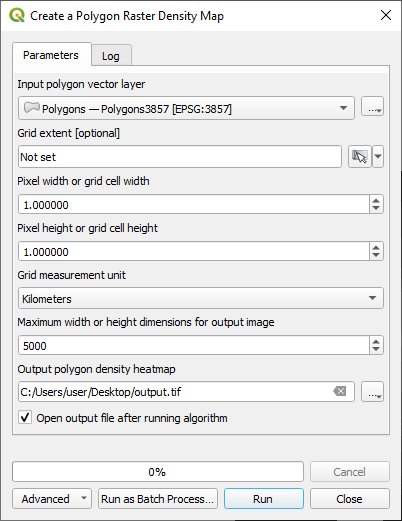
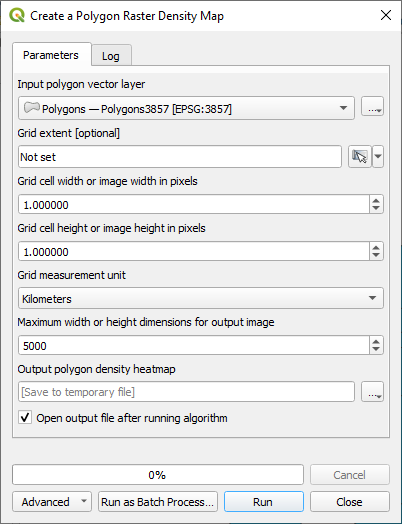
Update documentation

diff --git a/index.html b/index.html
@@ -41,13 +41,13 @@ code {
 <div style="text-align:center"><img src="help/menu.jpg" alt="Density Analysis"></div>
 
 <p>Note that one of the algorithms used in this plugin makes use of <strong>H3</strong> (Hexagonal hierarchical geospatial indexing system). This is an incredibly fast algorithm for generating hexagon density maps, but requires installation of the <strong>H3 python library</strong>. The H3 package can be installed by running the OSGeo4W shell as system administrator and running 'pip install h3' or whatever method you use to install python packages. After spending some time working with it, I think it would be beneficial to include it as one of the QGIS libraries in the future. In one test using the QGIS <strong><em>Create grid</em></strong> processing algorithm, followed by <strong><em>Count points in a polygon</em></strong> algorithm took 63.18 seconds to process spatially indexed point data. To do the same thing with H3 only took 3.79 seconds.</p>
-<h2><img src="help/densitygrid.png" alt="Random style" width="25" height="24"> Create Density Map Grid</h2>
+<h2><img src="help/densitygrid.png" alt="Random style" width="25" height="24"> Create styled density map</h2>
 <p>Given point features this will create a rectangle, diamond, or hexagon grid histogram of points that occur in each polygon grid cell. This algorithm uses the QGIS <strong><em>Count points in polygon</em></strong> algorithm which is fairly time intensive even though it has been masterfully implemented in core QGIS and significantly beats the speed implemented in commercial software. To optimize the speed make sure your input data is spatially indexed; otherwise, this algorithm will be painfully slow. The advantage to this algorithm is that it gives the most control over the size of the polygon grid cells. If speed is more important then use either the <strong><em>Create geohash density map</em></strong> or <strong><em>Create H3 density map</em></strong>. Both of these use geohash indexing to count points in each geohash grid cell and they are very fast. The former creates a square or rectangular grid and H3 creates a hexagon grid. For H3 support the H3 library needs to be installed in QGIS. The disadvantages of these geohash density maps is that they have fixed resolutions and you cannot choose anything in between, but this is also what makes them fast.</p>
 <p>Here is an example of crime in Chicago. Each point on the left is a criminal event. On the right is a hexagon heatmap counting the number of events in each cell and displaying it as a heatmap. The darker the red, the more crime is in that area. </p>
 <div style="text-align:center"><img src="help/chicago_crime.jpg" alt="Chicago crime" width="1000"></div>
 
 <p>This shows the parameters used in the algorithm.</p>
-<div style="text-align:center"><img src="help/kernel_density.png" alt="Kernel Density Algorithm"></div>
+<div style="text-align:center"><img src="help/kernel_density.png" alt="Density Algorithm"></div>
 
 <p>These are the input parameters:</p>
 <ul>
@@ -69,7 +69,7 @@ code {
 <li><strong><em>Color ramp mode</em></strong> - Select one of Equal Count (Quantile), Equal Interval, Logarithmic scale ,Natural Breaks (Jenks), Pretty Breaks, or Standard Deviation.</li>
 <li><strong><em>No feature outlines</em></strong> - If checked, it will not draw grid cell outlines.</li>
 </ul>
-<h2><img src="icons/geohash.png" alt="Geohash map" width="24" height="24"> Create Geohash Density Map</h2>
+<h2><img src="icons/geohash.png" alt="Geohash map" width="24" height="24"> Create styled geohash density map</h2>
 <p>This algorithm iterates through every point indexing them using a geohash with a count of the number of times each geohash has been seen. The bounds of each geohash cell is then created as a polygon. Depending on the resolution these polygon are either a square or rectangle. Here is an example.</p>
 <div style="text-align:center"><img src="help/geohash_example.png" alt="Geohash Density Map"></div>
 
@@ -132,7 +132,7 @@ code {
 </tr>
 </table>
 
-<h2><img src="icons/h3.png" alt="H3 density map" width="24" height="24"> Create H3 Density Map</h2>
+<h2><img src="icons/h3.png" alt="H3 density map" width="24" height="24"> Create styled H3 density map</h2>
 <p>This algorithm uses the H3 (Hexagonal hierarchical geospatial indexing system) library for fast density map generation. It iterates through every point using H3 indexing with a count of the number of times each H3 index has been seen. Each H3 cell is then created as a polygon. The polygons are in a hexagon shape. </p>
 <p>To create H3 density maps you will need to install the H3 Library (<a href="https://h3geo.org/">https://h3geo.org/</a>).
 The H3 package can be installed by running the OSGeo4W shell as system administrator and running 'pip install h3' or whatever method you use to install python packages. The H3 algorithms will give a warning message if H3 has not been installed.</p>
@@ -214,19 +214,19 @@ The H3 package can be installed by running the OSGeo4W shell as system administr
 </tr>
 </table>
 
-<h2><img src="help/densityexplorer.png" alt="Density explorer tool" width="25" height="24"> Heatmap density analysis tool</h2>
+<h2><img src="help/densityexplorer.png" alt="Density explorer tool" width="25" height="24"> Density map analysis tool</h2>
 <p>With this tool you can quickly look at the top scoring values. Select the original point layer and the density heatmap polygon layer generated by the above algorithms. ID and Count will probably automatically select the right attribute, but ID should be set to a unique identifier, and count should be set to the histogram count attribute which is <strong>NUMPOINTS</strong>.</p>
 <div style="text-align:center"><img src="help/densityanalysis.png" alt="Heatmap density analysis"></div>
 
 <p>Once the parameters have been set, click on <strong><em>Display Density Values</em></strong> and the top scores will be listed. If you click on any of entries only that grid cell will be display. A drop down set of actions specifies whether QGIS will <strong><em>Auto pan</em></strong> or <strong><em>Auto zoom</em></strong> to the selected feature or <strong><em>No action</em></strong> taken. You can then examine the features within the grid cell. You can also click and drag to select more than one, or Ctrl-click to add or subtract from the selection. Here is an example view.</p>
 <div style="text-align:center"><img src="help/example.png" alt="Example"></div>
 
-<h2><img src="help/applystyles.png" alt="Density explorer tool" width="28" height="28"> Apply Style to Selected Layers</h2>
+<h2><img src="help/applystyles.png" alt="Density explorer tool" width="28" height="28"> Apply style to selected layers</h2>
 <p>QGIS lacks a function to paste a style to more than one layer so this tool was developed to fix that lack in capability. If you have a .qml style or have a style copied on the clipboard you can apply it to all the selected layers. </p>
 <div style="text-align:center"><img src="help/applystyle.png" alt="Apply style to selected layers"></div>
 
 <p>When pasting a graduated style the symbol class values are preserved unless <strong><em>Automatically reclassify graduated layers</em></strong> is checked. When checked, each layer's minimum and maximum are evaluated along with the graduated mode to reclassify the values.</p>
-<h2>Applying Graduated and Random Categorized Styles</h2>
+<h2>Applying graduated and random categorized styles</h2>
 <p>The purpose of these two algorithms, is to set random and graduated styles using an algorithm. This makes it possible to set a layer's style in the model builder.</p>
 <ul>
 <li>
@@ -240,7 +240,7 @@ The H3 package can be installed by running the OSGeo4W shell as system administr
 <p>Specify the input layer and the field to distinguish between different categories. If <strong><em>No feature outlines</em></strong> is checked, then the features will not have outlines.</p>
 </li>
 </ul>
-<h2><img src="icons/polydensity.png" alt="Create a polygon density map" width="28" height="28"> Create a Polygon Raster Density Map</h2>
+<h2><img src="icons/polydensity.png" alt="Create a polygon density map" width="28" height="28"> Create a polygon raster density map</h2>
 <p>This routine differs from the previous density map algorithms because it uses a raster image to accumulate the summation of rasterized polygon layers. Here is an example of the result of summing a cluster of polygons.</p>
 <div style="text-align:center"><img src="help/polygondensity.jpg" alt="Polygon density map"></div>
 
@@ -249,12 +249,12 @@ The H3 package can be installed by running the OSGeo4W shell as system administr
 
 <ul>
 <li><strong><em>Grid extent</em></strong> - Select a grid extent. In this case it is not set and defaults to the extent of the input layer.</li>
-<li><strong><em>Pixel width or grid cell width</em></strong> - If <strong><em>Grid measurement unit</em></strong> is set to <strong>Size in pixels</strong> then this represents the width of the output image that will be created to span the extent of the polygon data; otherwise, each pixel represents the width value defined by <strong><em>Grid measurement unit</em></strong>. For example if <strong><em>Grid measurement unit</em></strong> is set to Kilometers and this value is set to 2, then every pixel represents a width of 2 kilometers.</li>
-<li><strong><em>Pixel height or grid cell height</em></strong> - If <strong><em>Grid measurement unit</em></strong> is set to <strong>Size in pixels</strong> then this represents the height of the output image that will be created to span the extent of the polygon data; otherwise, each pixel represents the height value defined by <strong><em>Grid measurement unit</em></strong>. For example if <strong><em>Grid measurement unit</em></strong> is set to Meters and this value is set to 20, then every pixel represents a height of 20 meters.</li>
-<li><strong><em>Grid measurement unit</em></strong> - This specifies what the values represent in <strong><em>Pixel width or grid cell width</em></strong> and <strong><em>Pixel height or grid cell height</em></strong>. The values are <strong>Size in pixels</strong>, <strong>Kilometers</strong>, <strong>Meters</strong>, <strong>Miles</strong>, <strong>Yards</strong>, <strong>Feet</strong>, <strong>Nautical Miles</strong>, and <strong>Degrees</strong>.</li>
+<li><strong><em>Grid cell width or image width in pixels</em></strong> - If <strong><em>Grid measurement unit</em></strong> is set to <strong>Dimensions in pixels</strong> then this represents the width of the output image that will be created to span the extent of the polygon data; otherwise, each pixel represents the width value defined by <strong><em>Grid measurement unit</em></strong>. For example if <strong><em>Grid measurement unit</em></strong> is set to Kilometers and this value is set to 2, then every pixel represents a width of 2 kilometers.</li>
+<li><strong><em>Grid cell height or image height in pixels</em></strong> - If <strong><em>Grid measurement unit</em></strong> is set to <strong>Dimensions in pixels</strong> then this represents the height of the output image that will be created to span the extent of the polygon data; otherwise, each pixel represents the height value defined by <strong><em>Grid measurement unit</em></strong>. For example if <strong><em>Grid measurement unit</em></strong> is set to Meters and this value is set to 20, then every pixel represents a height of 20 meters.</li>
+<li><strong><em>Grid measurement unit</em></strong> - This specifies what the values represent in <strong><em>Grid cell width or image width in pixels</em></strong> and <strong><em>Grid cell height or image height in pixels</em></strong>. The values are <strong>Dimensions in pixels</strong>, <strong>Kilometers</strong>, <strong>Meters</strong>, <strong>Miles</strong>, <strong>Yards</strong>, <strong>Feet</strong>, <strong>Nautical Miles</strong>, and <strong>Degrees</strong>.</li>
 <li><strong><em>Maximum width or height dimensions for output image</em></strong> - Because it would be easy to create an astronomically large image if inappropriate values are used above, this provides a check to make sure they are reasonable. It will error out if the width or height of the resulting output image were to exceed this value.</li>
 </ul>
-<h2><img src="icons/styleraster.png" alt="Create a polygon density map" width="28" height="28"> Apply a Pseudocolor Raster Style</h2>
+<h2><img src="icons/styleraster.png" alt="Create a polygon density map" width="28" height="28"> Apply a pseudocolor raster style</h2>
 <div style="text-align:center"><img src="help/pseudocolorstyle.png" alt="Pseudocolor raster style dialog"></div>
 
 <p>This achieves some of the functionality you get from right-mouse clicking on a single band image and selecting properties and selecting the <em>Symbology</em> tab and choosing <strong><em>Singleband pseudocolor</em></strong> for the <strong>*Render type</strong>. For more information on the parameters visit the QGIS documentation.</p></body>

diff --git a/readme.md b/readme.md
@@ -6,7 +6,7 @@ This plugin automates the creation of vector density heatmaps in QGIS with a hea
 
 Note that one of the algorithms used in this plugin makes use of **H3** (Hexagonal hierarchical geospatial indexing system). This is an incredibly fast algorithm for generating hexagon density maps, but requires installation of the **H3 python library**. The H3 package can be installed by running the OSGeo4W shell as system administrator and running 'pip install h3' or whatever method you use to install python packages. After spending some time working with it, I think it would be beneficial to include it as one of the QGIS libraries in the future. In one test using the QGIS ***Create grid*** processing algorithm, followed by ***Count points in a polygon*** algorithm took 63.18 seconds to process spatially indexed point data. To do the same thing with H3 only took 3.79 seconds.
 
-## <img src="help/densitygrid.png" alt="Random style" width="25" height="24"> Create Density Map Grid
+## <img src="help/densitygrid.png" alt="Random style" width="25" height="24"> Create styled density map
 
 Given point features this will create a rectangle, diamond, or hexagon grid histogram of points that occur in each polygon grid cell. This algorithm uses the QGIS ***Count points in polygon*** algorithm which is fairly time intensive even though it has been masterfully implemented in core QGIS and significantly beats the speed implemented in commercial software. To optimize the speed make sure your input data is spatially indexed; otherwise, this algorithm will be painfully slow. The advantage to this algorithm is that it gives the most control over the size of the polygon grid cells. If speed is more important then use either the ***Create geohash density map*** or ***Create H3 density map***. Both of these use geohash indexing to count points in each geohash grid cell and they are very fast. The former creates a square or rectangular grid and H3 creates a hexagon grid. For H3 support the H3 library needs to be installed in QGIS. The disadvantages of these geohash density maps is that they have fixed resolutions and you cannot choose anything in between, but this is also what makes them fast.
 
@@ -16,7 +16,7 @@ Here is an example of crime in Chicago. Each point on the left is a criminal eve
 
 This shows the parameters used in the algorithm.
 
-<div style="text-align:center"><img src="help/kernel_density.png" alt="Kernel Density Algorithm"></div>
+<div style="text-align:center"><img src="help/kernel_density.png" alt="Density Algorithm"></div>
 
 These are the input parameters:
 
@@ -36,7 +36,7 @@ These are the input parameters:
 * ***Color ramp mode*** - Select one of Equal Count (Quantile), Equal Interval, Logarithmic scale ,Natural Breaks (Jenks), Pretty Breaks, or Standard Deviation.
 * ***No feature outlines*** - If checked, it will not draw grid cell outlines.
 
-## <img src="icons/geohash.png" alt="Geohash map" width="24" height="24"> Create Geohash Density Map
+## <img src="icons/geohash.png" alt="Geohash map" width="24" height="24"> Create styled geohash density map
 
 This algorithm iterates through every point indexing them using a geohash with a count of the number of times each geohash has been seen. The bounds of each geohash cell is then created as a polygon. Depending on the resolution these polygon are either a square or rectangle. Here is an example.
 
@@ -103,7 +103,7 @@ The styling parameters are the same as the above algorithm. The resolution is de
 </tr>
 </table>
 
-## <img src="icons/h3.png" alt="H3 density map" width="24" height="24"> Create H3 Density Map
+## <img src="icons/h3.png" alt="H3 density map" width="24" height="24"> Create styled H3 density map
 
 This algorithm uses the H3 (Hexagonal hierarchical geospatial indexing system) library for fast density map generation. It iterates through every point using H3 indexing with a count of the number of times each H3 index has been seen. Each H3 cell is then created as a polygon. The polygons are in a hexagon shape. 
 
@@ -191,7 +191,7 @@ The styling parameters are the same as the ***Create Density Map Grid*** algorit
 </tr>
 </table>
 
-## <img src="help/densityexplorer.png" alt="Density explorer tool" width="25" height="24"> Heatmap density analysis tool
+## <img src="help/densityexplorer.png" alt="Density explorer tool" width="25" height="24"> Density map analysis tool
 
 With this tool you can quickly look at the top scoring values. Select the original point layer and the density heatmap polygon layer generated by the above algorithms. ID and Count will probably automatically select the right attribute, but ID should be set to a unique identifier, and count should be set to the histogram count attribute which is **NUMPOINTS**.
 
@@ -201,7 +201,7 @@ Once the parameters have been set, click on ***Display Density Values*** and the
 
 <div style="text-align:center"><img src="help/example.png" alt="Example"></div>
 
-## <img src="help/applystyles.png" alt="Density explorer tool" width="28" height="28"> Apply Style to Selected Layers
+## <img src="help/applystyles.png" alt="Density explorer tool" width="28" height="28"> Apply style to selected layers
 
 QGIS lacks a function to paste a style to more than one layer so this tool was developed to fix that lack in capability. If you have a .qml style or have a style copied on the clipboard you can apply it to all the selected layers. 
 
@@ -209,7 +209,7 @@ QGIS lacks a function to paste a style to more than one layer so this tool was d
 
 When pasting a graduated style the symbol class values are preserved unless ***Automatically reclassify graduated layers*** is checked. When checked, each layer's minimum and maximum are evaluated along with the graduated mode to reclassify the values.
 
-## Applying Graduated and Random Categorized Styles
+## Applying graduated and random categorized styles
 
 The purpose of these two algorithms, is to set random and graduated styles using an algorithm. This makes it possible to set a layer's style in the model builder.
 
@@ -225,7 +225,7 @@ The purpose of these two algorithms, is to set random and graduated styles using
     
     Specify the input layer and the field to distinguish between different categories. If ***No feature outlines*** is checked, then the features will not have outlines.
 
-## <img src="icons/polydensity.png" alt="Create a polygon density map" width="28" height="28"> Create a Polygon Raster Density Map
+## <img src="icons/polydensity.png" alt="Create a polygon density map" width="28" height="28"> Create a polygon raster density map
 
 This routine differs from the previous density map algorithms because it uses a raster image to accumulate the summation of rasterized polygon layers. Here is an example of the result of summing a cluster of polygons.
 
@@ -236,12 +236,12 @@ The parameters in dialog box are as follows:
 <div style="text-align:center"><img src="help/polygondensitymap.png" alt="Polygon density map"></div>
 
 * ***Grid extent*** - Select a grid extent. In this case it is not set and defaults to the extent of the input layer.
-* ***Pixel width or grid cell width*** - If ***Grid measurement unit*** is set to **Size in pixels** then this represents the width of the output image that will be created to span the extent of the polygon data; otherwise, each pixel represents the width value defined by ***Grid measurement unit***. For example if ***Grid measurement unit*** is set to Kilometers and this value is set to 2, then every pixel represents a width of 2 kilometers.
-* ***Pixel height or grid cell height*** - If ***Grid measurement unit*** is set to **Size in pixels** then this represents the height of the output image that will be created to span the extent of the polygon data; otherwise, each pixel represents the height value defined by ***Grid measurement unit***. For example if ***Grid measurement unit*** is set to Meters and this value is set to 20, then every pixel represents a height of 20 meters.
-* ***Grid measurement unit*** - This specifies what the values represent in ***Pixel width or grid cell width*** and ***Pixel height or grid cell height***. The values are **Size in pixels**, **Kilometers**, **Meters**, **Miles**, **Yards**, **Feet**, **Nautical Miles**, and **Degrees**.
+* ***Grid cell width or image width in pixels*** - If ***Grid measurement unit*** is set to **Dimensions in pixels** then this represents the width of the output image that will be created to span the extent of the polygon data; otherwise, each pixel represents the width value defined by ***Grid measurement unit***. For example if ***Grid measurement unit*** is set to Kilometers and this value is set to 2, then every pixel represents a width of 2 kilometers.
+* ***Grid cell height or image height in pixels*** - If ***Grid measurement unit*** is set to **Dimensions in pixels** then this represents the height of the output image that will be created to span the extent of the polygon data; otherwise, each pixel represents the height value defined by ***Grid measurement unit***. For example if ***Grid measurement unit*** is set to Meters and this value is set to 20, then every pixel represents a height of 20 meters.
+* ***Grid measurement unit*** - This specifies what the values represent in ***Grid cell width or image width in pixels*** and ***Grid cell height or image height in pixels***. The values are **Dimensions in pixels**, **Kilometers**, **Meters**, **Miles**, **Yards**, **Feet**, **Nautical Miles**, and **Degrees**.
 * ***Maximum width or height dimensions for output image*** - Because it would be easy to create an astronomically large image if inappropriate values are used above, this provides a check to make sure they are reasonable. It will error out if the width or height of the resulting output image were to exceed this value.
 
-## <img src="icons/styleraster.png" alt="Create a polygon density map" width="28" height="28"> Apply a Pseudocolor Raster Style
+## <img src="icons/styleraster.png" alt="Create a polygon density map" width="28" height="28"> Apply a pseudocolor raster style
 
 <div style="text-align:center"><img src="help/pseudocolorstyle.png" alt="Pseudocolor raster style dialog"></div>
 
